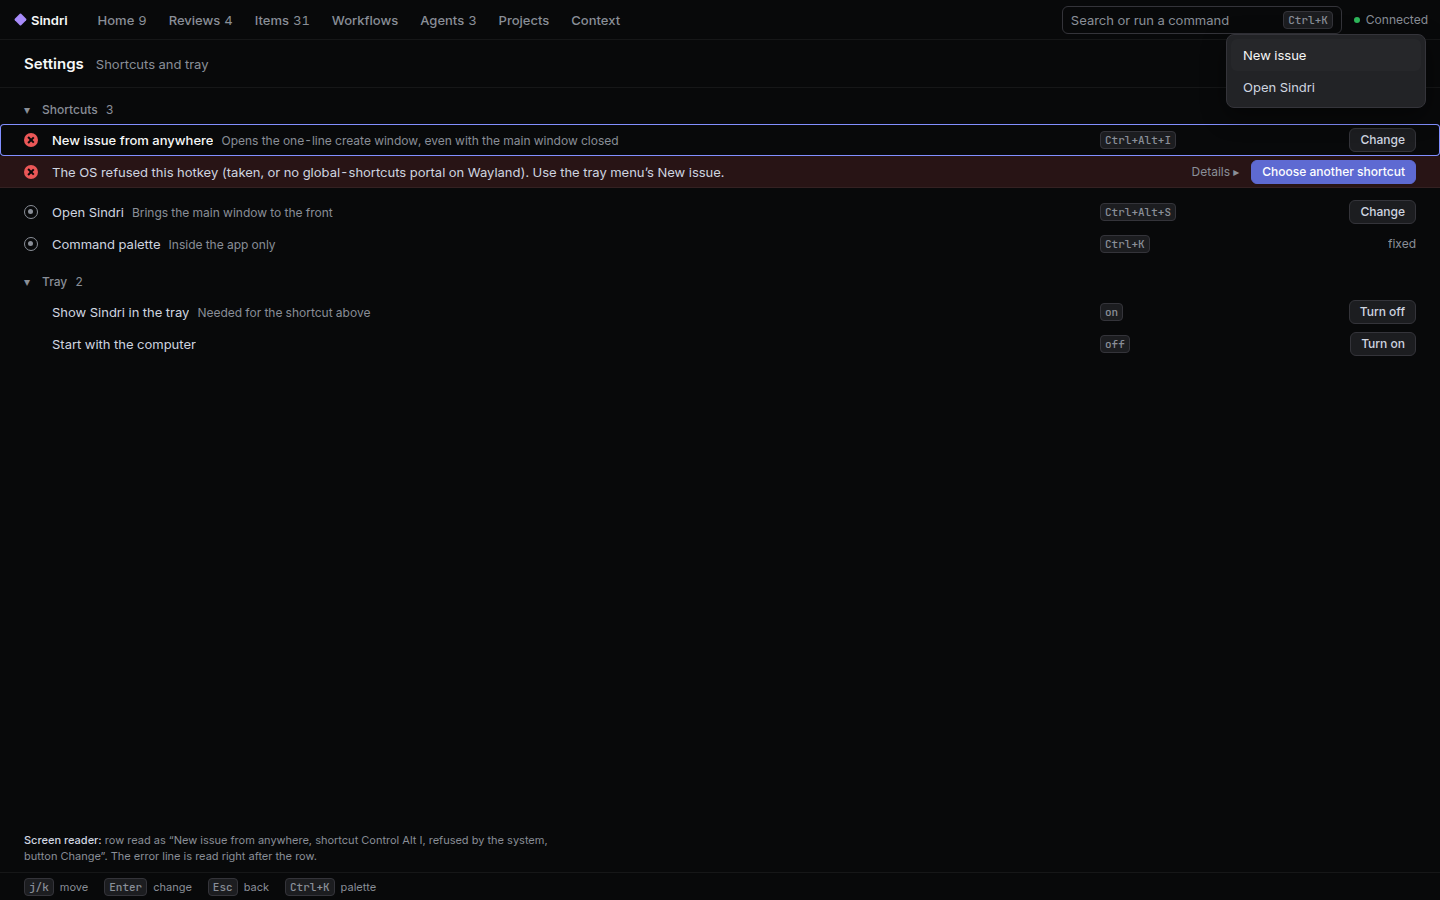
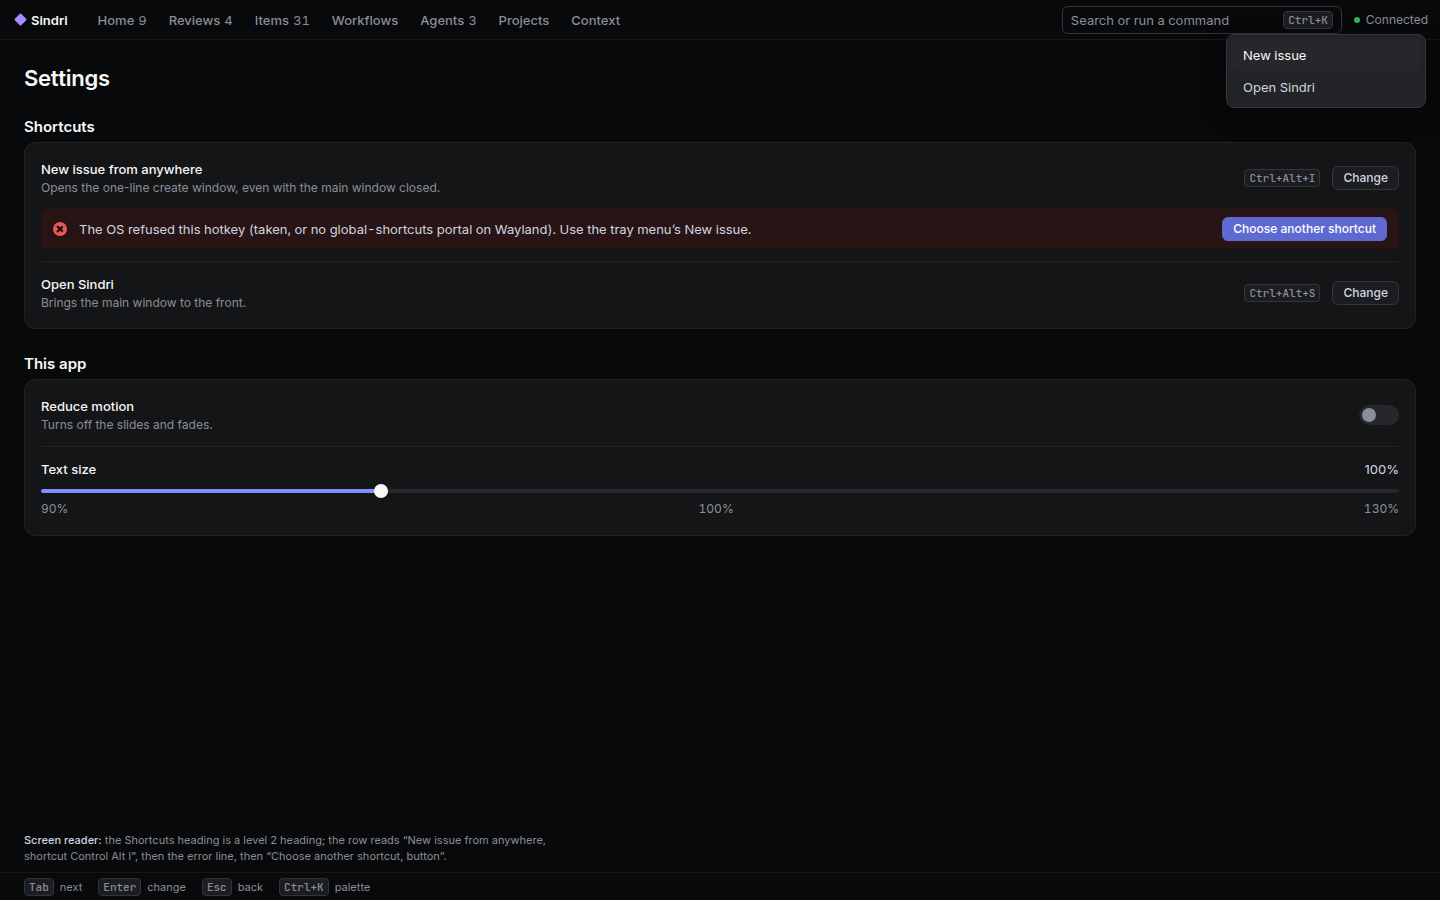
projects-2961 round 3b settings frame on the real SettingsView layout

diff --git a/projects.css b/projects.css
@@ -83,3 +83,24 @@
 .rules>div{padding:3px 0 !important}
 .draft .ta ul{margin:0 0 6px;padding-left:18px}.draft .ta li{margin:0}
 .btn.dis{opacity:.45}
+
+/* Settings page, copied from SettingsView.axaml: title, then sections 24 px apart; heading over a Surface1 card */
+.settings{padding:var(--sp5) var(--inset) 0;overflow:hidden}
+.spt{font:600 22px/28px var(--font);letter-spacing:-.24px;color:var(--ink);margin-bottom:var(--sp5)}
+.ssec{margin-bottom:var(--sp5)}
+.shd{font:600 15px/22px var(--font);color:var(--ink);margin-bottom:var(--sp1)}
+.scard{background:var(--s1);border:1px solid var(--hair);border-radius:12px;padding:var(--sp4)}
+.srw{display:flex;align-items:center;justify-content:space-between;gap:var(--sp4)}
+.sl{font:500 13px/20px var(--font);color:var(--ink)}
+.sc{font:400 12px/18px var(--font);color:var(--ink-subtle)}
+.sm{font:400 13px/20px var(--font);color:var(--ink-muted)}
+.sctl{display:flex;align-items:center;gap:var(--sp3)}
+.sdiv{height:1px;background:var(--hair);margin:var(--sp3) 0}
+.serr{display:flex;align-items:center;gap:var(--sp3);margin:var(--sp3) 0 0;padding:8px 12px;background:var(--err-soft);border-radius:var(--r2);font-size:13px;color:var(--ink-muted)}
+.serr .sp{flex:1}
+.tgl{width:40px;height:20px;border-radius:10px;background:var(--s4);position:relative;display:inline-block}
+.tgl i{position:absolute;left:3px;top:3px;width:14px;height:14px;border-radius:50%;background:var(--ink-subtle)}
+.trk{height:4px;border-radius:2px;background:var(--s4);margin:10px 0 6px;position:relative}
+.trk i{position:absolute;left:0;top:0;bottom:0;width:25%;background:var(--primary-hi);border-radius:2px}
+.trk b{position:absolute;left:25%;top:-5px;width:14px;height:14px;margin-left:-7px;border-radius:50%;background:var(--ink)}
+.ticks{display:flex;justify-content:space-between;font-size:12px;color:var(--ink-subtle)}

diff --git a/gen.py b/gen.py
@@ -239,28 +239,32 @@ write('create-window-error', desk(CWERR, '“Linear can’t be reached. Your tex
 write('create-window-done', desk('<div class="notif"><div class="h">Sindri</div><div>Created <span class="id">EXP-437</span> in Exports v2</div><div style="color:var(--ink-subtle);font-size:12px">Retry timeout on export upload is 5 s, make it configurable</div><div class="acts">' + btn('Open in Linear') + btn('Copy link') + '</div></div>', '“Notification: Created EXP-437 in Exports v2. Actions: Open in Linear, Copy link.”'))
 
 # ================= #3170 Settings: the shortcut the system refused =================
-def srow(title, sub, key, btnhtml='', cls='read', g='linked'):
-    return (f'<div class="row fix {cls}"><span class="g {g}"></span><span class="title"><span class="t">{title}</span><span class="sub">{sub}</span></span>'
-            f'<span class="fact"><kbd>{key}</kbd></span><span class="fixbtn">{btnhtml}</span></div>\n')
-sl = grp('Shortcuts', 3)
-sl += srow('New issue from anywhere', 'Opens the one-line create window, even with the main window closed', 'Ctrl+Alt+I', btn('Change'), 'unread cursor', 'fail')
-sl += ('<div class="state-line err" style="margin:0 0 8px"><span class="g fail"></span><span class="what">The OS refused this hotkey (taken, or no global-shortcuts portal on Wayland). Use the tray menu’s New issue.</span>'
-       '<span class="btns"><span class="det">Details ▸</span>' + btn('Choose another shortcut', True) + '</span></div>\n')
-sl += srow('Open Sindri', 'Brings the main window to the front', 'Ctrl+Alt+S', btn('Change'))
-sl += srow('Command palette', 'Inside the app only', 'Ctrl+K', '<span class="fact" style="color:var(--ink-subtle)">fixed</span>')
-sl += grp('Tray', 2) + srow('Show Sindri in the tray', 'Needed for the shortcut above', 'on', btn('Turn off'), 'read', 'on') + srow('Start with the computer', '', 'off', btn('Turn on'), 'read', 'off')
+# Layout copied from the real SettingsView (src/Sindri/Aw.Sindri.Ui/Views/SettingsView.axaml): a page title, then sections stacked
+# 24 px apart. A section is a detail-title heading over a Surface1 card (hairline border, radius 12, padding 16) whose rows are
+# a body-strong label with a caption under it on the left and the control on the right, hairline between rows.
+def setrow(label, sub, right, first=False):
+    d = '' if first else '<div class="sdiv"></div>'
+    return f'{d}<div class="srw"><div class="stx"><div class="sl">{label}</div><div class="sc">{sub}</div></div><div class="sctl">{right}</div></div>'
+SHORT = ('<div class="ssec"><div class="shd">Shortcuts</div><div class="scard">'
+  + setrow('New issue from anywhere', 'Opens the one-line create window, even with the main window closed.', '<kbd>Ctrl+Alt+I</kbd>' + btn('Change'), True)
+  + '<div class="serr"><span class="g fail"></span><span>The OS refused this hotkey (taken, or no global-shortcuts portal on Wayland). Use the tray menu’s New issue.</span><span class="sp"></span>' + btn('Choose another shortcut', True) + '</div>'
+  + setrow('Open Sindri', 'Brings the main window to the front.', '<kbd>Ctrl+Alt+S</kbd>' + btn('Change'))
+  + '</div></div>')
+THISAPP = ('<div class="ssec"><div class="shd">This app</div><div class="scard">'
+  + setrow('Reduce motion', 'Turns off the slides and fades.', '<span class="tgl"><i></i></span>', True)
+  + '<div class="sdiv"></div><div class="srw" style="display:block"><div style="display:flex;justify-content:space-between"><div class="sl">Text size</div><div class="sm">100%</div></div>'
+    '<div class="trk"><i></i><b></b></div><div class="ticks"><span>90%</span><span>100%</span><span>130%</span></div></div></div></div>')
 cont = (f'''<!doctype html>
 <html lang="en"><head><meta charset="utf-8"><title>Settings - shortcut refused</title>
 <link rel="stylesheet" href="{G}"><link rel="stylesheet" href="projects.css"></head>
-<body><div class="app">
+<body><div class="app" style="grid-template-rows:var(--bar-h) 1fr var(--keys-h)">
 <div class="topbar"><span class="wordmark">Sindri</span><nav class="nav"><a>Home<span class="n">9</span></a><a>Reviews<span class="n">4</span></a><a>Items<span class="n">31</span></a><a>Workflows</a><a>Agents<span class="n">3</span></a><a>Projects</a><a>Context</a></nav>
 <span class="spacer"></span><div class="cmdk">Search or run a command<kbd>Ctrl+K</kbd></div><span class="status-pill">Connected</span></div>
-<div class="header"><h1>Settings</h1><span class="count">Shortcuts and tray</span></div>
-<div class="body"><div class="list">
-{sl}</div></div>
-<div class="keys"><span><kbd>j/k</kbd>move</span><span><kbd>Enter</kbd>change</span><span><kbd>Esc</kbd>back</span><span><kbd>Ctrl+K</kbd>palette</span></div>
+<div class="settings"><div class="spt">Settings</div>
+{SHORT}{THISAPP}</div>
+<div class="keys"><span><kbd>Tab</kbd>next</span><span><kbd>Enter</kbd>change</span><span><kbd>Esc</kbd>back</span><span><kbd>Ctrl+K</kbd>palette</span></div>
 </div></body></html>
 ''')
 TRAY = ('<div class="menu" style="right:14px;top:34px;left:auto;width:200px;padding:4px 0">'
         '<div class="ment on"><span class="lab">New issue</span></div><div class="ment"><span class="lab">Open Sindri</span></div></div>')
-write('settings-hotkey-refused', cont.replace('</body>', TRAY + sr('row read as “New issue from anywhere, shortcut Control Alt I, refused by the system, button Change”. The error line is read right after the row.') + '</body>'))
+write('settings-hotkey-refused', cont.replace('</body>', TRAY + sr('the Shortcuts heading is a level 2 heading; the row reads “New issue from anywhere, shortcut Control Alt I”, then the error line, then “Choose another shortcut, button”.') + '</body>'))

diff --git a/guesses.md b/guesses.md
@@ -31,7 +31,7 @@ Draft update and Home
 
 Create window and Settings
 12. Frameless dialog over a plain desktop with a tray strip. Project and Assignee are preset; "in Linear · EXP". Title field only.
-13. Settings copy for a refused hotkey is ideas' exact text: "The OS refused this hotkey (taken, or no global-shortcuts portal on Wayland). Use the tray menu's New issue." One primary, "Choose another shortcut". The tray strip shows New issue. The Settings page layout (groups, rows) is my guess; the spec has no Settings frame.
+13. Settings copy for a refused hotkey is ideas' exact text: "The OS refused this hotkey (taken, or no global-shortcuts portal on Wayland). Use the tray menu's New issue." One primary, "Choose another shortcut". The tray strip shows New issue. The layout is not a guess any more: it follows the real SettingsView (a page title, sections 24 px apart, each a heading over a Surface1 card with label, caption and control rows, hairline between rows). "Shortcuts" is drawn as one more section beside the real "This app" section. I could not read the shell's page margin or maximum width, so the cards stretch the full 1392 px content width.
 
 Screen reader lines
 14. Every frame carries one "Screen reader:" line saying what a row (or the window, menu or notification) reads as. The wording is mine; none of the frames before this round had aria names.

diff --git a/report.md b/report.md
@@ -17,4 +17,4 @@ All 1440x900 PNGs in this folder (`pr-<name>.png`), on `../grammar-2978/grammar.
 | pr-create-window-empty | #3170 | Same, before typing | 12 |
 | pr-create-window-error | #3170 | "Linear can't be reached. Your text is kept." with Retry; window stays open | settled 15 |
 | pr-create-window-done | #3170 | Notification "Created EXP-437" with Open in Linear and Copy link | settled 16 |
-| pr-settings-hotkey-refused | #3170 | Settings, Shortcuts: Ctrl+Alt+I with ideas' exact refused-hotkey line, one primary (Choose another shortcut), tray menu with New issue | 13 |
+| pr-settings-hotkey-refused | #3170 | Settings drawn in the real SettingsView layout: a Shortcuts section (heading over a card) with Ctrl+Alt+I, ideas' exact refused-hotkey line and one primary (Choose another shortcut), beside the real This app section; the tray menu shows New issue | 13 |
